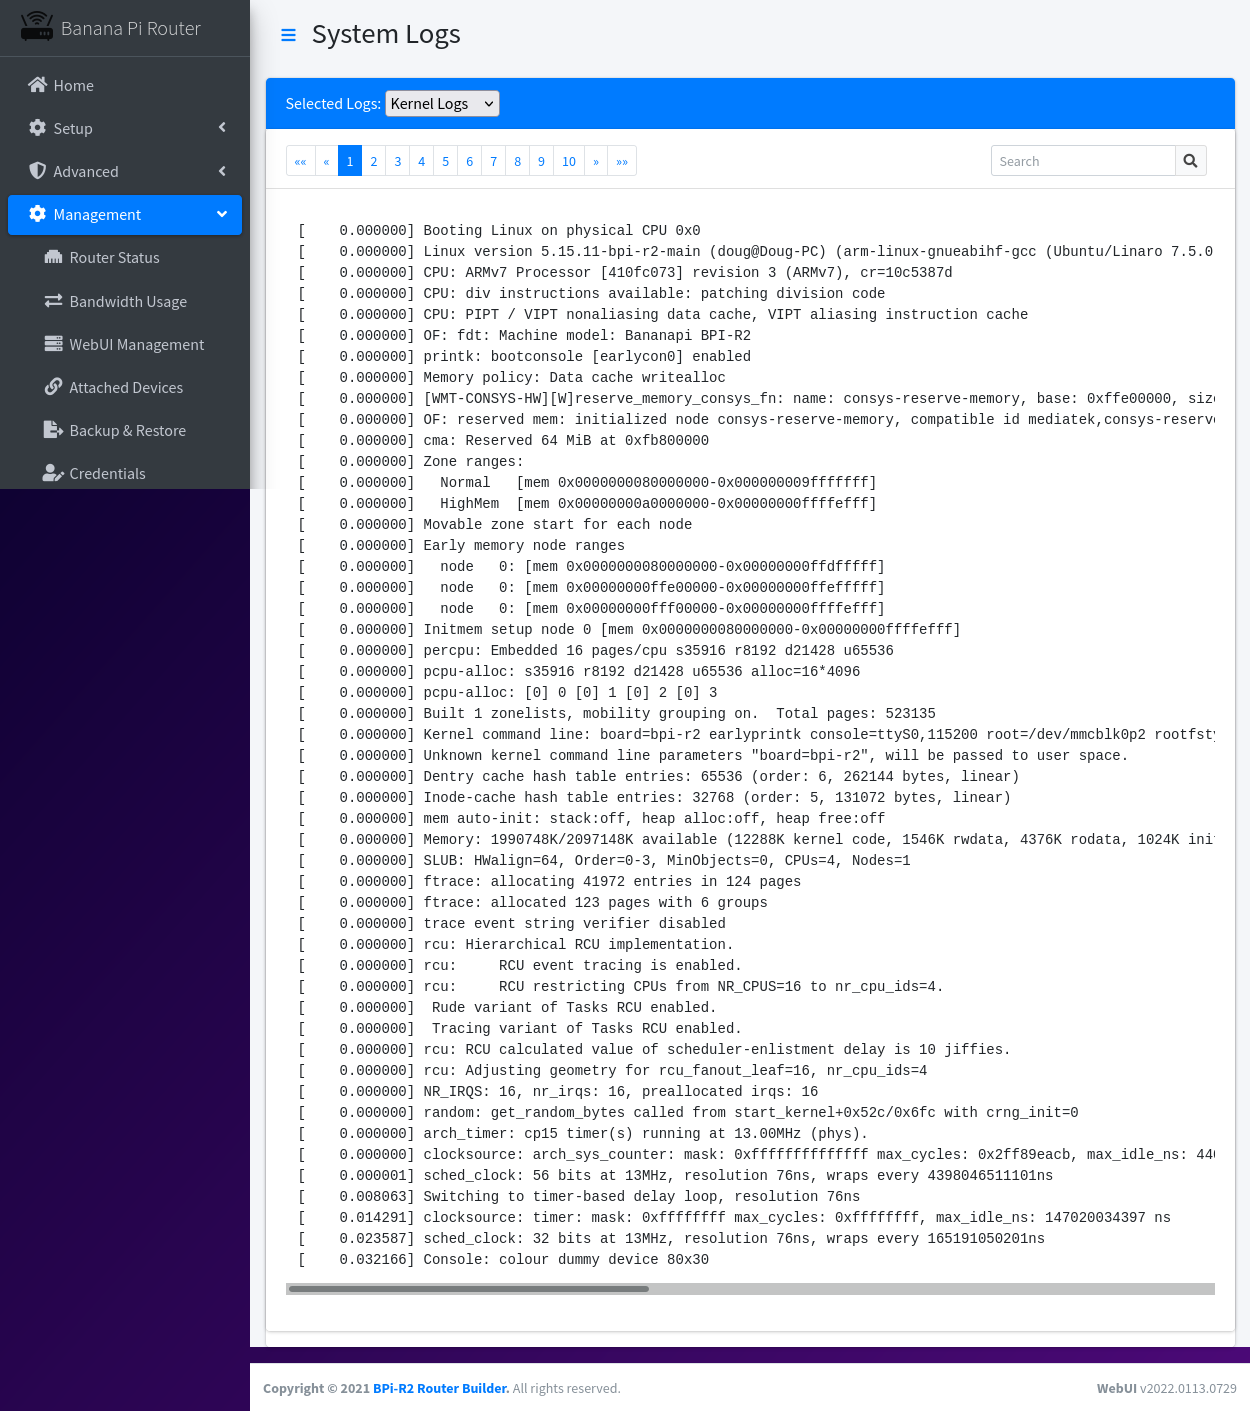
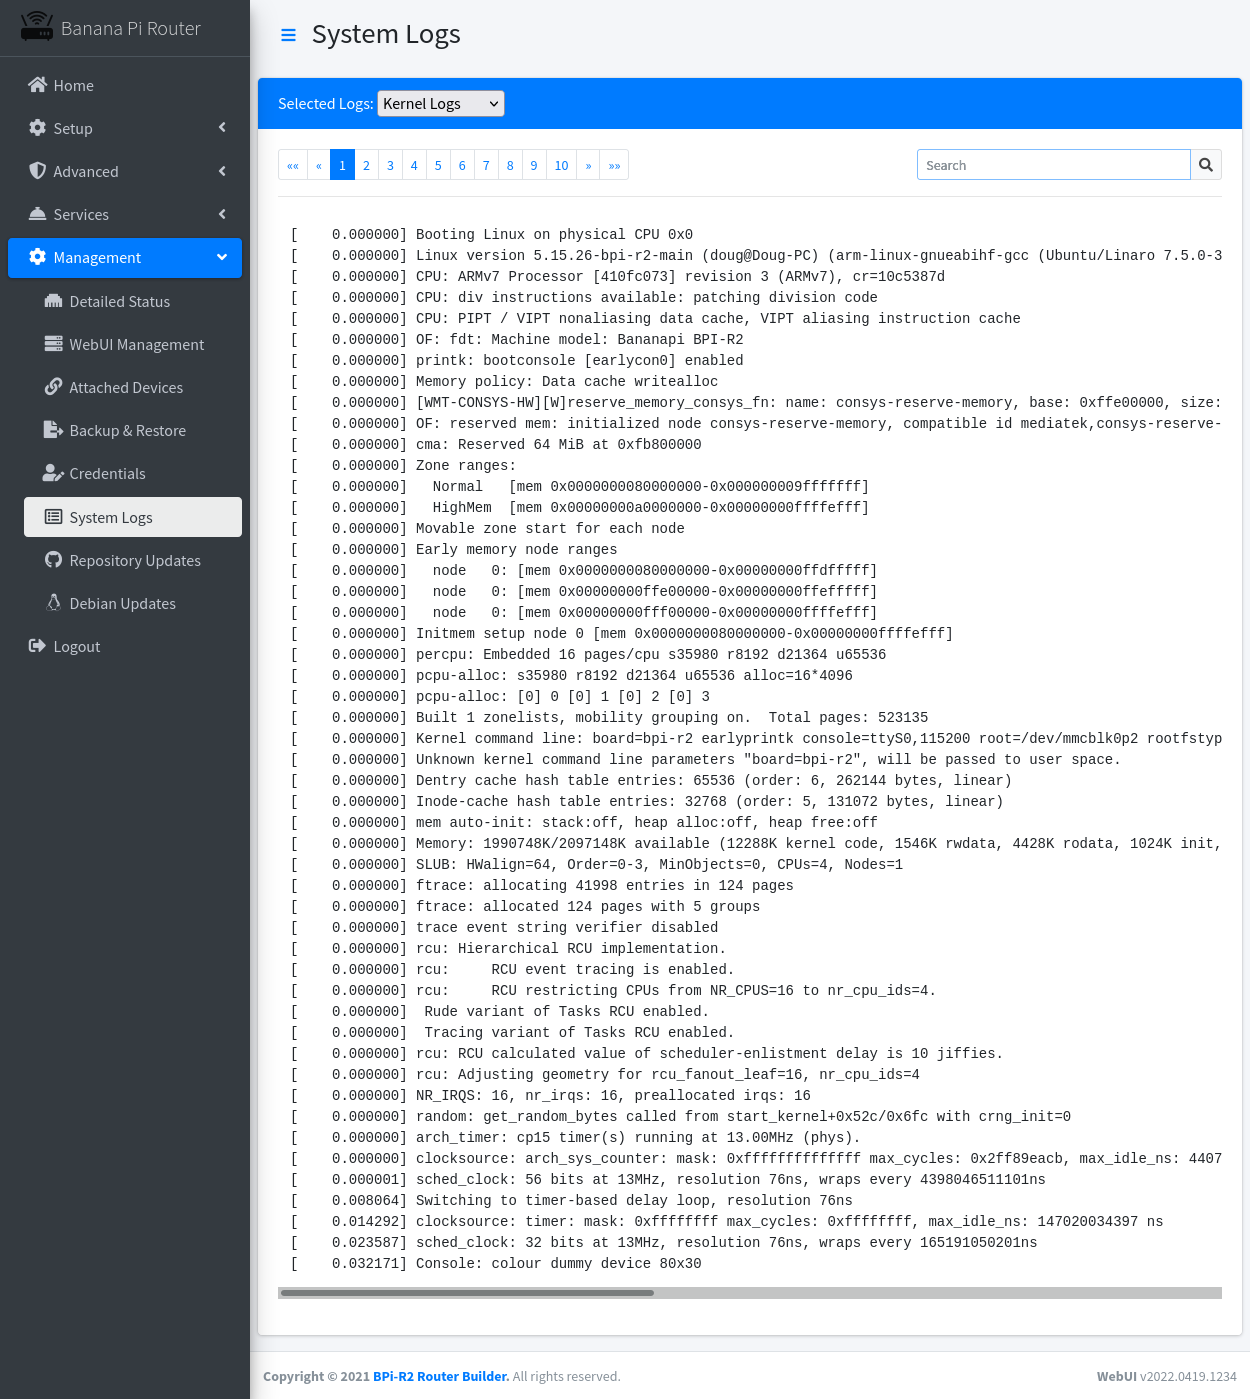
Improved WebUI Management / System Logs

diff --git a/router/includes/manage-logs.php b/router/includes/manage-logs.php
@@ -52,7 +52,8 @@ if ($pages > 1)
 # Output everything:
 site_menu();
 echo '
-<div class="col-12 col-sm-12">
+<div class="row">
+<div class="col-sm-12">
 	<div class="card card-tabs card-primary">
 		<div class="card-header">
 			Selected Logs: <select id="which">';
@@ -63,10 +64,17 @@ foreach ($cmds as $cmd => $arr)
 echo '
 			</select>
         </div>
-        <div class="card p-0 pt-1">
-			<div class="card-header">
-				<div class="card-tools">
-					<div class="input-group input-group-sm">
+		<div class="card-body">
+			<div class="row">
+				<div class="col-8">';
+if ($pages > 1)
+	echo '
+					<ul class="pagination pagination-sm m-0" id="pages">', $pagination, '
+					</ul>';
+echo '
+				</div>
+				<div class="col-4">
+					<div class="float-right input-group input-group-sm">
 						<input type="text" id="search" class="form-control float-right" placeholder="Search">
 						<div class="input-group-append">
 							<button type="submit" class="btn btn-default">
@@ -74,18 +82,13 @@ echo '
 							</button>
 						</div>
 					</div>
-				</div>';
-if ($pages > 1)
-	echo '
-				<ul class="pagination pagination-sm m-0" id="pages">', $pagination, '
-				</ul>';
-echo '
+				</div>
 			</div>
-			<div class="card-body">
-				<pre id="lines">' . "\n" . $lines . '</pre>
-			</div>
+			<hr />
+			<pre id="lines">' . "\n" . $lines . '</pre>
 		</div>
-	</div>';
+	</div>
+</div>';
 
 # Wrap it up:
 apply_changes_modal("Please wait while the logs are being loaded...", true);
